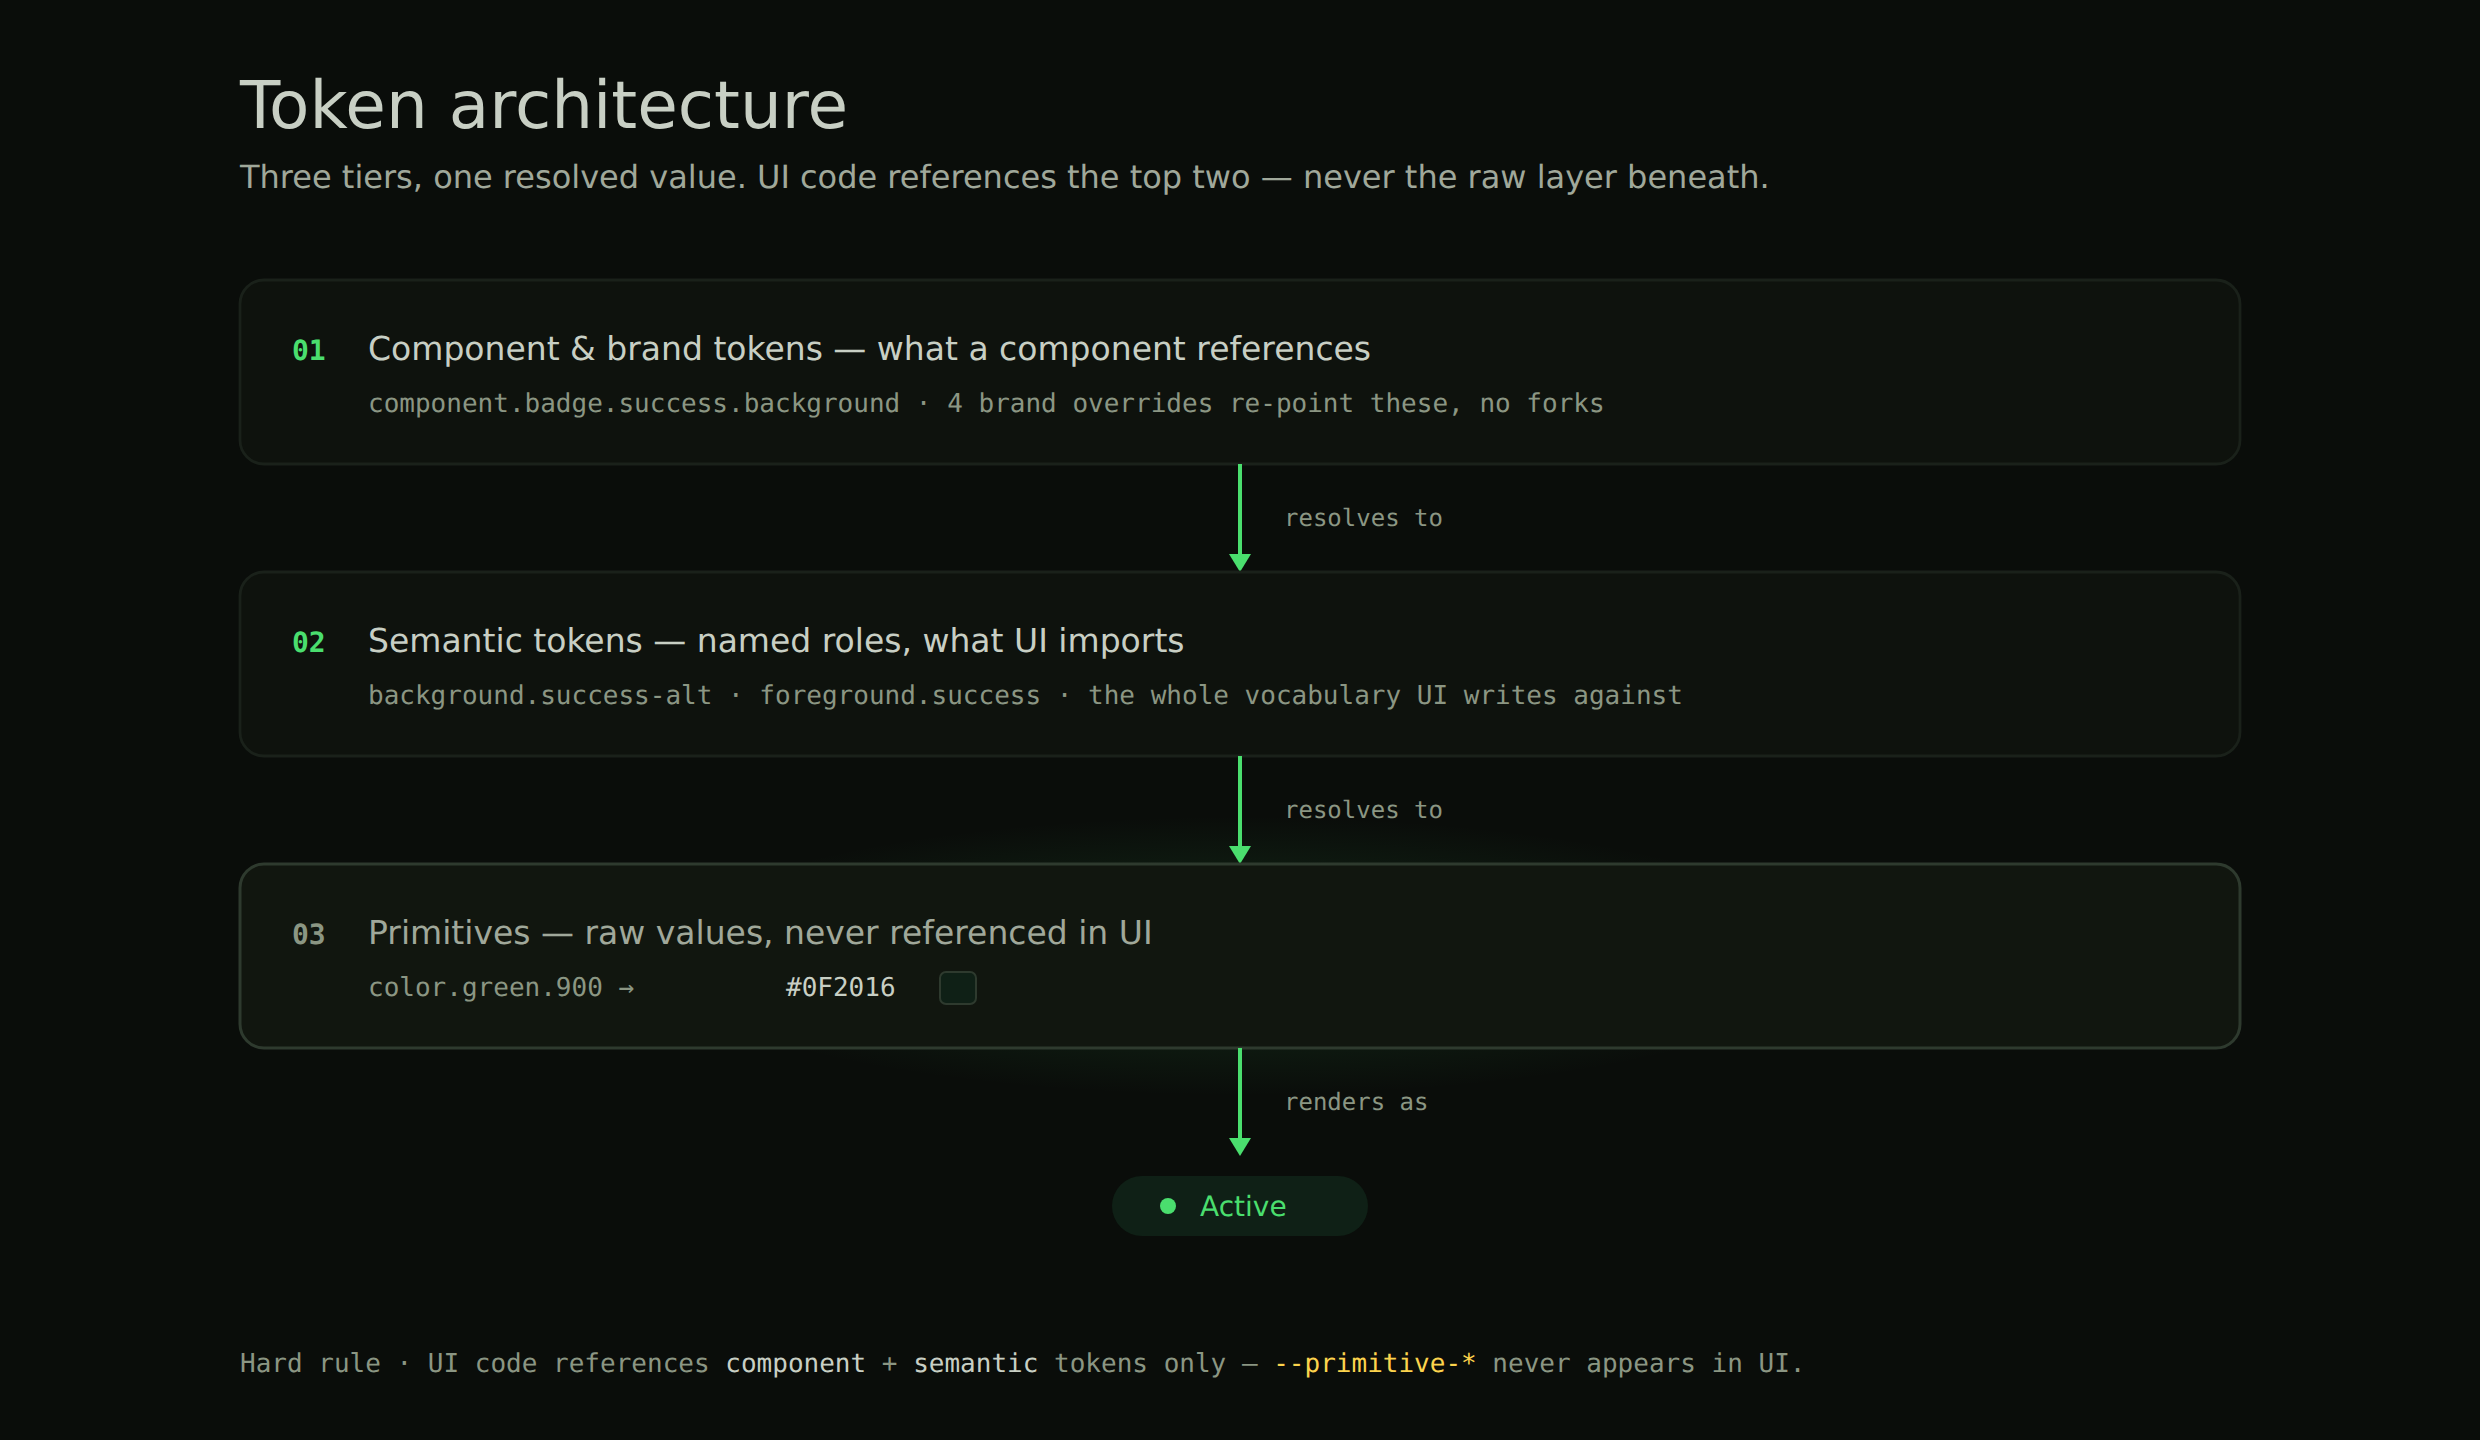
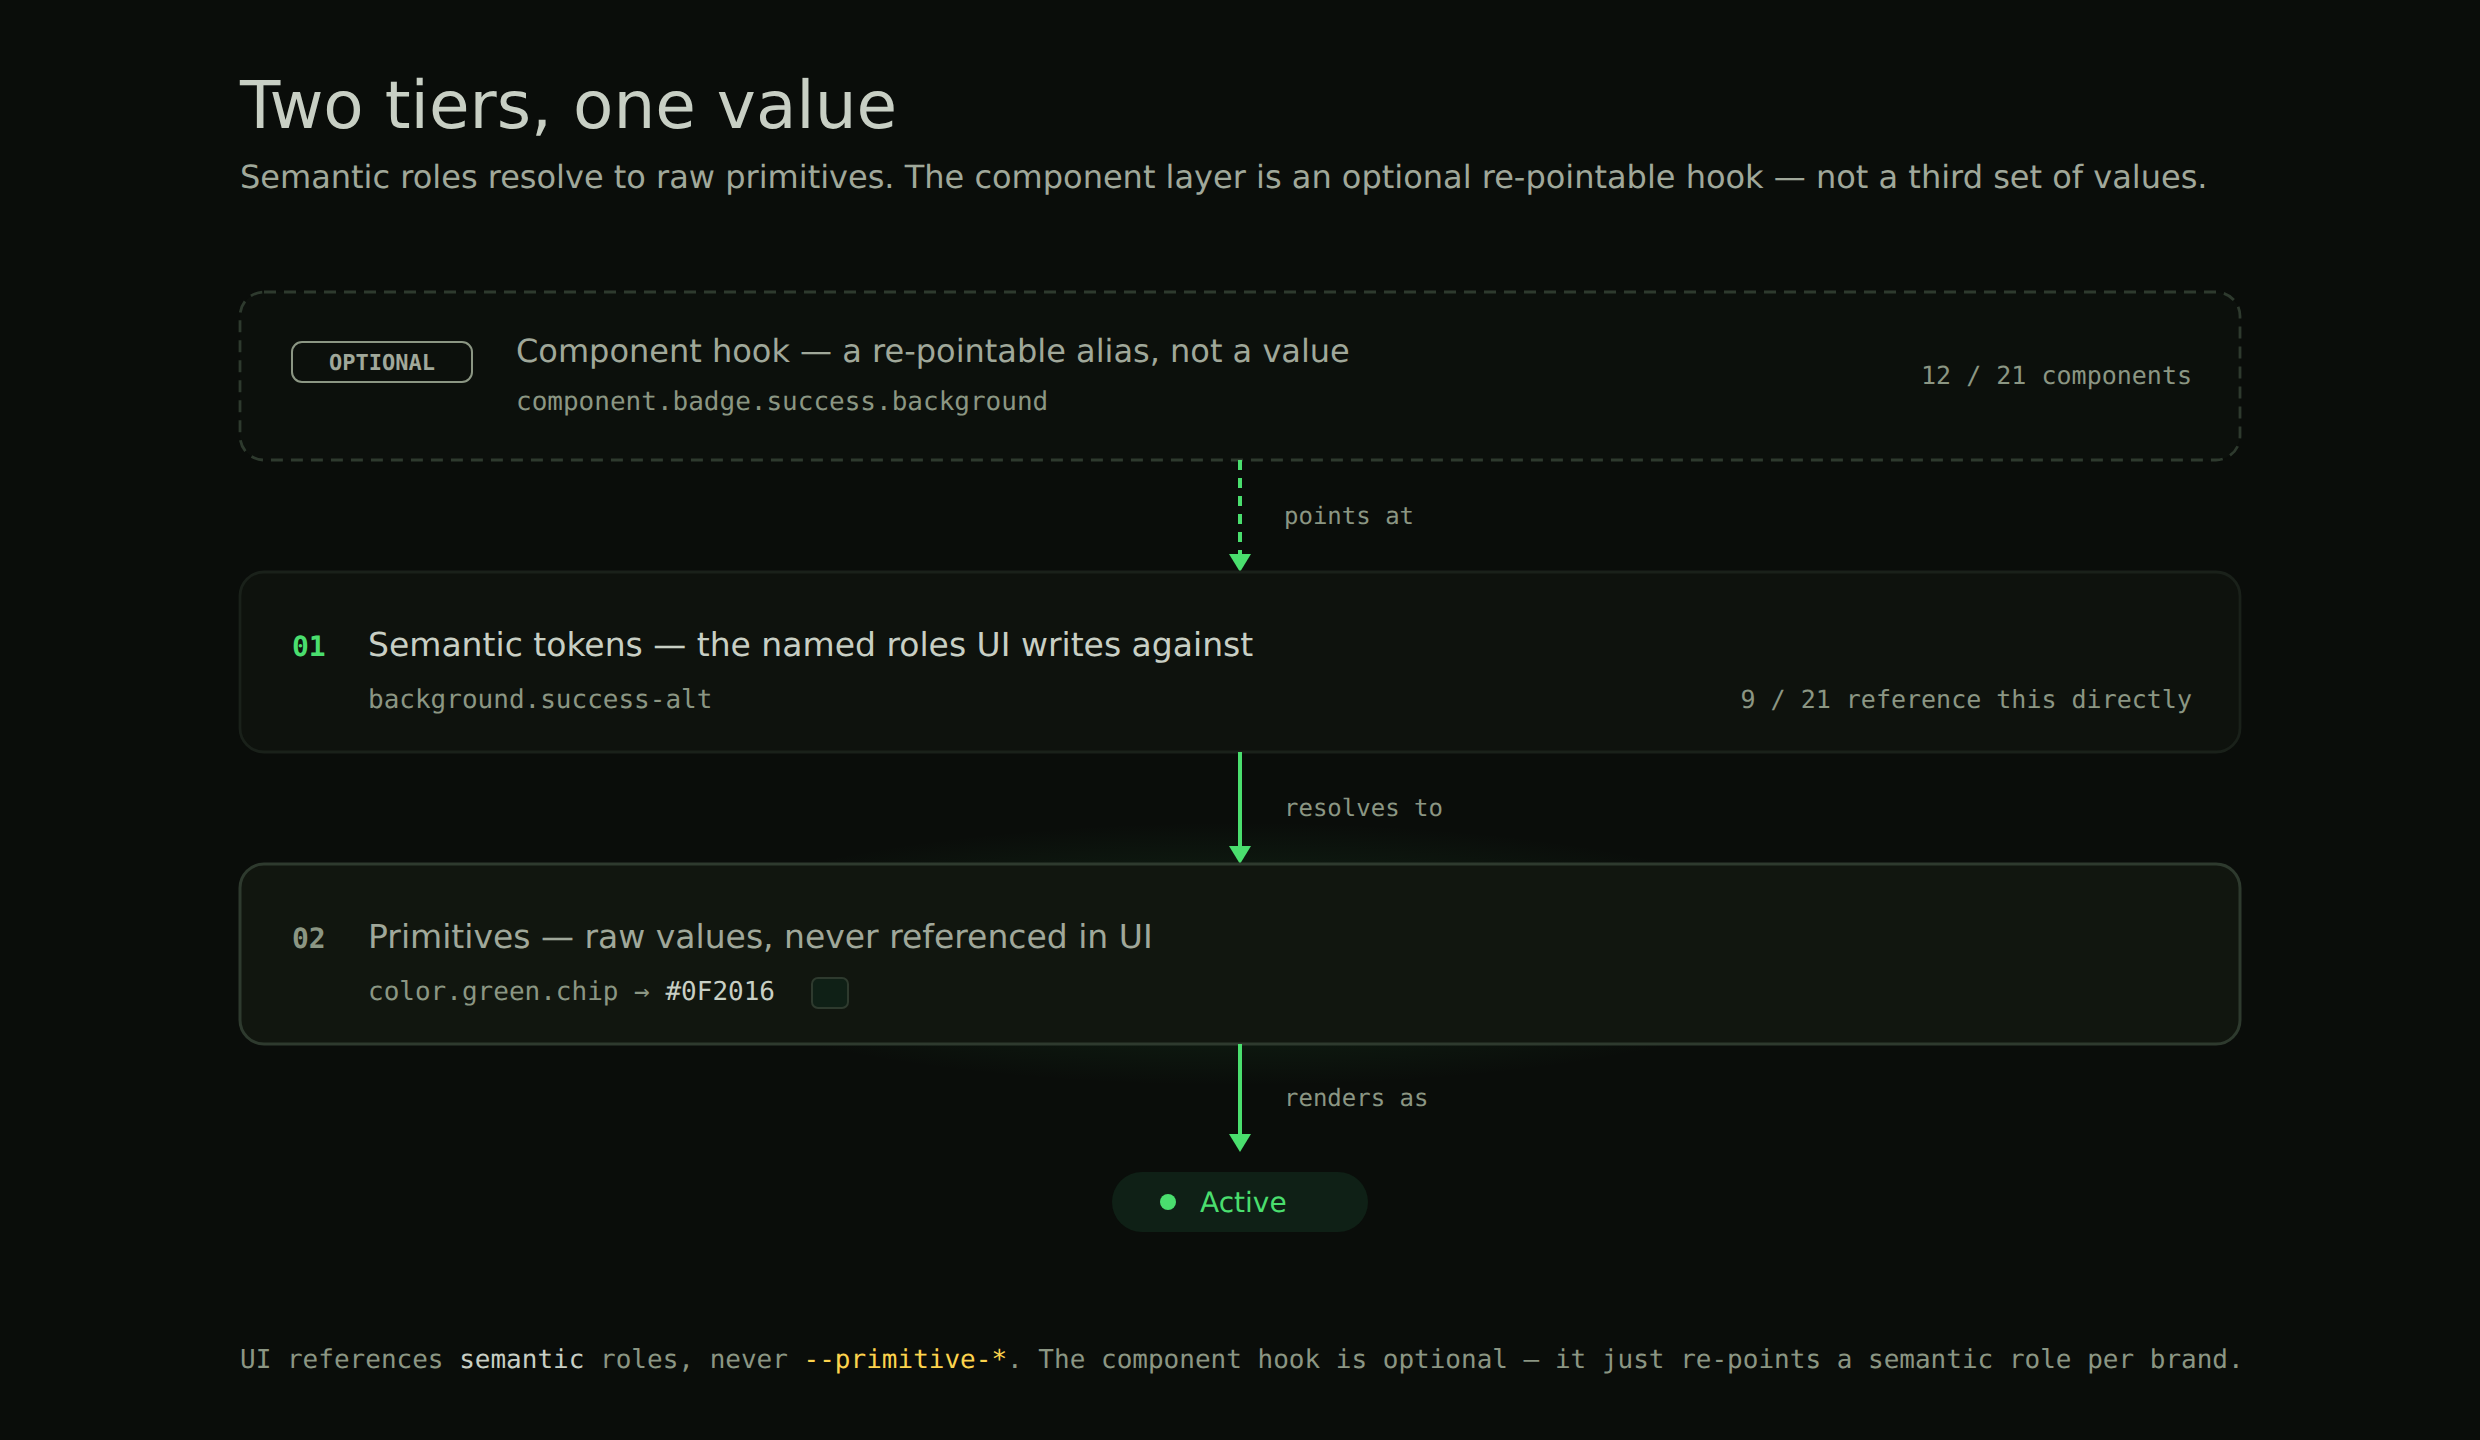
Fix token-tiers diagram: two-tier framing + correct primitive name
Reframes ds-token-tiers as "Two tiers, one value" — semantic → primitive as the
backbone, with the component tier shown as an optional re-pointable hook (12 of
21 components use it) rather than a universal third tier, matching how Parsimony
actually works. Also fixes the primitive name to color.green.chip (the earlier
color.green.900 was fabricated). Case-study alt/caption updated to match.

diff --git a/lib/caseContent.ts b/lib/caseContent.ts
@@ -928,9 +928,9 @@ export const CASE_CONTENT: Record<string, CaseContent> = {
       },
       {
         type: "image",
-        alt: "Three-tier token diagram: a component token (component.badge.success.background) resolves to a semantic token (background.success-alt), which resolves to a primitive (color.green.900 = #0F2016), rendering as a success badge. A footer rule states UI code references component and semantic tokens only, never primitives.",
+        alt: "Token resolution diagram: a semantic token (background.success-alt) resolves to a primitive (color.green.chip = #0F2016), rendering as a success badge. Above it, an optional component hook (component.badge.success.background, used by 12 of 21 components) points at the semantic token so a brand can re-point it without touching component code. A footer rule states UI references semantic roles, never primitives.",
         caption:
-          "Three tiers resolve to one value. UI code references the semantic and component layers; the raw primitive layer is never touched directly.",
+          "Two tiers carry the values — semantic roles resolve to primitives. The component layer is an optional re-pointable hook, not a third set of values.",
         src: "/projects/images/ds-token-tiers.png",
       },
       { type: "hr" },